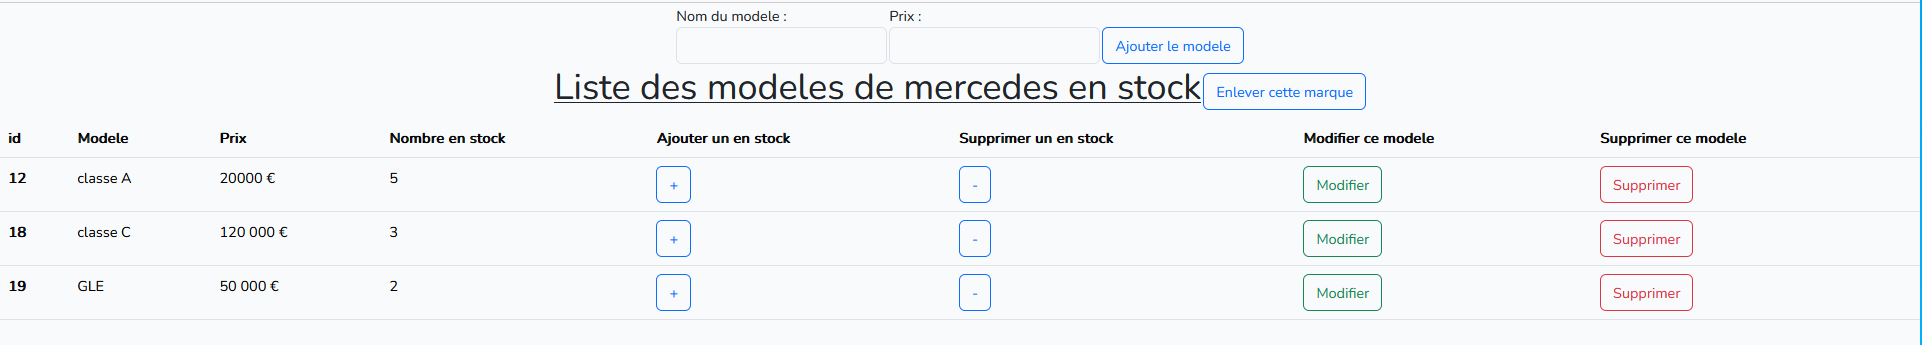
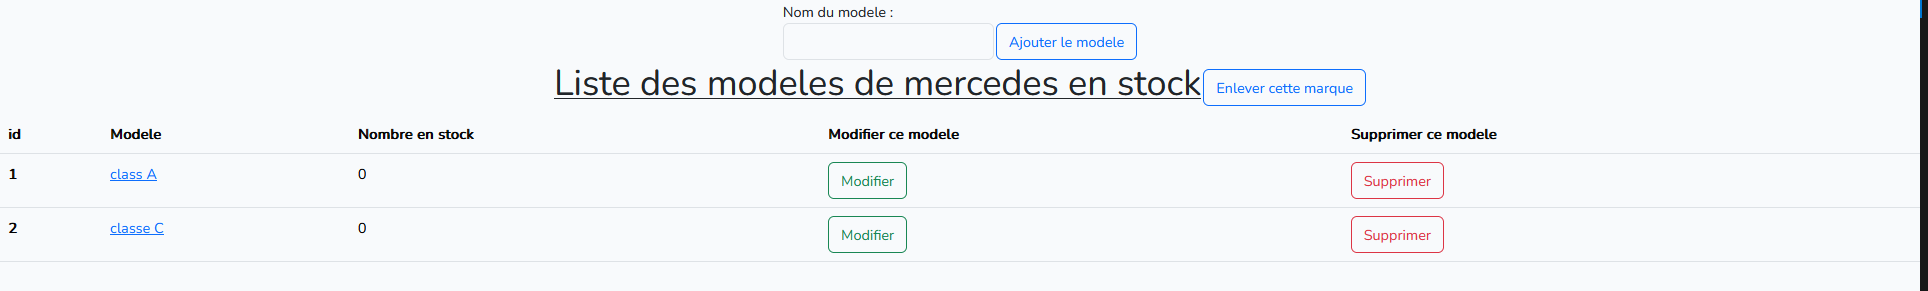
pageListeModele

diff --git a/resources/views/listeVoiture.blade.php b/resources/views/listeVoiture.blade.php
@@ -1,0 +1,81 @@
+<!DOCTYPE html>
+<html lang="en">
+<head>
+    <meta charset="UTF-8">
+    <meta name="viewport" content="width=device-width, initial-scale=1.0">
+    <title>Document</title>
+    <link rel="stylesheet" href="css/detailCar.css">
+    <link rel="stylesheet" href="{{asset("css/app.css") }}">
+</head>
+<body>
+  <style>
+  body {
+    height: 100vh;
+    margin: 0;
+  }
+
+  h1{
+    color : rgb(0, 0, 0);
+    text-align: center;
+    text-decoration: underline;
+  }
+
+  .titre{
+    display: flex;
+    border-collapse: collapse;
+    justify-content: center;
+    align-items: center;
+  }
+  </style>
+  <div class="titre">
+  <table>
+    <tr>
+      <td>
+        <h1>Liste des  @foreach($modeles as $modele){{$modele->modele}}@endforeach en stock</h1>
+        
+      </td>
+      <td>
+      <form action="" method="POST"> @csrf<button type="submit" class="btn btn-outline-primary">+</button></form>
+      </td>
+    </tr>
+  </table>
+  </div>
+<table class="table">
+  <thead class="thead-dark">
+    <tr>
+      <th scope="col">id</th>
+      <th scope="col">date</th>
+      <th scope="col">kilometrage</th>
+      <th>puissance</th>
+      <th>energie</th>
+      <th>prix</th>
+      <th>modifier</th>
+      <th>supprimer</th>
+    </tr>
+  </thead>
+  <tbody>
+  @foreach($voitures as $voiture)
+    <tr>
+      <th scope="row">{{$voiture->id}}</th>
+      <td>{{$voiture->date}}</td>
+      <td>{{$voiture->kilometre}} km</td>
+      <td>
+        {{$voiture->puissances}} chavaux
+      </td>
+      <td>
+        {{$voiture->energie}}
+      </td>
+      <td>
+        {{$voiture->prix}} €
+      </td>
+      <td>
+        <form action="" method="POST">@csrf<button type="submit" class="btn btn-outline-success">Modifier</button></form>
+      </td>
+      <td>
+        <form action="" method="POST">@csrf<button type="submit" class="btn btn-outline-danger">Supprimer</button></form>
+      </td>
+    @endforeach
+  </tbody>
+</table>
+</body>
+</html>

diff --git a/routes/web.php b/routes/web.php
@@ -21,9 +21,10 @@ Route::get('modele/{id}', [App\Http\Controllers\modeleController::class, 'show']
 Route::post('/', [App\Http\Controllers\modeleController::class, 'add']);
 Route::post('/deleteMarque', [App\Http\Controllers\modeleController::class, 'deleteMarque']);
 Route::post('/deleteModele', [App\Http\Controllers\modeleController::class, 'deleteModele']);
-Route::post('/incrementerModele', [App\Http\Controllers\modeleController::class, 'incrementationModele']);
-Route::post('/decrementationModele', [App\Http\Controllers\modeleController::class, 'decrementationModele']);
+//Route::post('/incrementerModele', [App\Http\Controllers\modeleController::class, 'incrementationModele']);
+//Route::post('/decrementationModele', [App\Http\Controllers\modeleController::class, 'decrementationModele']);
 Route::post('/pageModifierCaracteristiqueModele', [App\Http\Controllers\modeleController::class, 'showModifier']);
 Route::post('/modifierCaracteristiqueModele', [App\Http\Controllers\modeleController::class, 'modifierCaracteristiqueModele']);
+Route::get('listeVoiture/{id}', [App\Http\Controllers\listeVoitureController::class, 'show']);
 
 Auth::routes();

diff --git a/resources/views/detailCar.blade.php b/resources/views/detailCar.blade.php
@@ -55,8 +55,6 @@
       <th scope="col">id</th>
       <th scope="col">Modele</th>
       <th scope="col">Nombre en stock</th>
-      <th>Ajouter un en stock</th>
-      <th>Supprimer un en stock</th>
       <th>Modifier ce modele</th>
       <th>Supprimer ce modele</th>
     </tr>
@@ -65,14 +63,8 @@
   @foreach($modeles as $modele)
     <tr>
       <th scope="row">{{$modele->id}}</th>
-      <td>{{$modele->modele}}</td>
+      <td><a href="listeVoiture/{{$modele->id}}">{{$modele->modele}}</a></td>
       <td>{{$modele->nombreEnStock}}</td>
-      <td>
-        <form action="/incrementerModele" method="POST"> @csrf<button type="submit" class="btn btn-outline-primary"name="id" value="{{$modele->id}}">+</button></form>
-      </td>
-      <td>
-        <form action="/decrementationModele" method="POST">@csrf<button type="submit" class="btn btn-outline-primary" name="id" value="{{$modele->id}}">-</button></form>
-      </td>
       <td>
         <form action="/pageModifierCaracteristiqueModele" method="POST">@csrf<button type="submit" class="btn btn-outline-success" name="modifier" value="{{$modele->id}}">Modifier</button></form>
       </td>

diff --git a/app/Http/Controllers/modeleController.php b/app/Http/Controllers/modeleController.php
@@ -48,7 +48,7 @@ class modeleController extends Controller
         return back();
     }
 
-    public function incrementationModele()
+    /*public function incrementationModele()
     {
         $id = request('id');
         $modele = Modele::find($id);
@@ -64,7 +64,7 @@ class modeleController extends Controller
         $modele->nombreEnStock -= 1;    
         $modele->save();
         return back();
-    }
+    }*/
 
     public function showModifier(){
         $idModele = request('modifier');

diff --git a/app/Http/Controllers/listeVoitureController.php b/app/Http/Controllers/listeVoitureController.php
@@ -1,0 +1,19 @@
+<?php
+
+namespace App\Http\Controllers;
+use App\Models\ListeVoiture;
+use App\Models\Modele;
+
+use Illuminate\Http\Request;
+
+class listeVoitureController extends Controller
+{
+    public function show($id){
+        $voitures = ListeVoiture::where('id_Modele', '=', $id)->get();
+        $modeles = Modele::where('id', '=', $id)->get();
+        return view('listeVoiture',['modeles' => $modeles],
+        [
+            'voitures' => $voitures
+        ],);
+    }
+}

diff --git a/database/migrations/2023_10_11_081944_liste_voiture.php b/database/migrations/2023_10_11_081944_liste_voiture.php
@@ -13,7 +13,7 @@ class ListeVoiture extends Migration
      */
     public function up()
     {
-        Schema::create('listVoiture', function (Blueprint $table) {
+        Schema::create('liste_voitures', function (Blueprint $table) {
             $table->id();
             $table->unsignedBigInteger('id_Modele');
             $table->date('date'); 

diff --git a/database/migrations/2023_10_06_072740_modeles.php b/database/migrations/2023_10_06_072740_modeles.php
@@ -19,7 +19,6 @@ class Modeles extends Migration
             $table->unsignedBigInteger('idMarque');
             $table->text('nombreEnStock');
             $table->timestamps();
-
             $table->foreign('idMarque')->references('id')->on('cars');
         });
     }

diff --git a/app/Models/ListeVoiture.php b/app/Models/ListeVoiture.php
@@ -1,0 +1,11 @@
+<?php
+
+namespace App\Models;
+
+use Illuminate\Database\Eloquent\Factories\HasFactory;
+use Illuminate\Database\Eloquent\Model;
+
+class ListeVoiture extends Model
+{
+    use HasFactory;
+}
